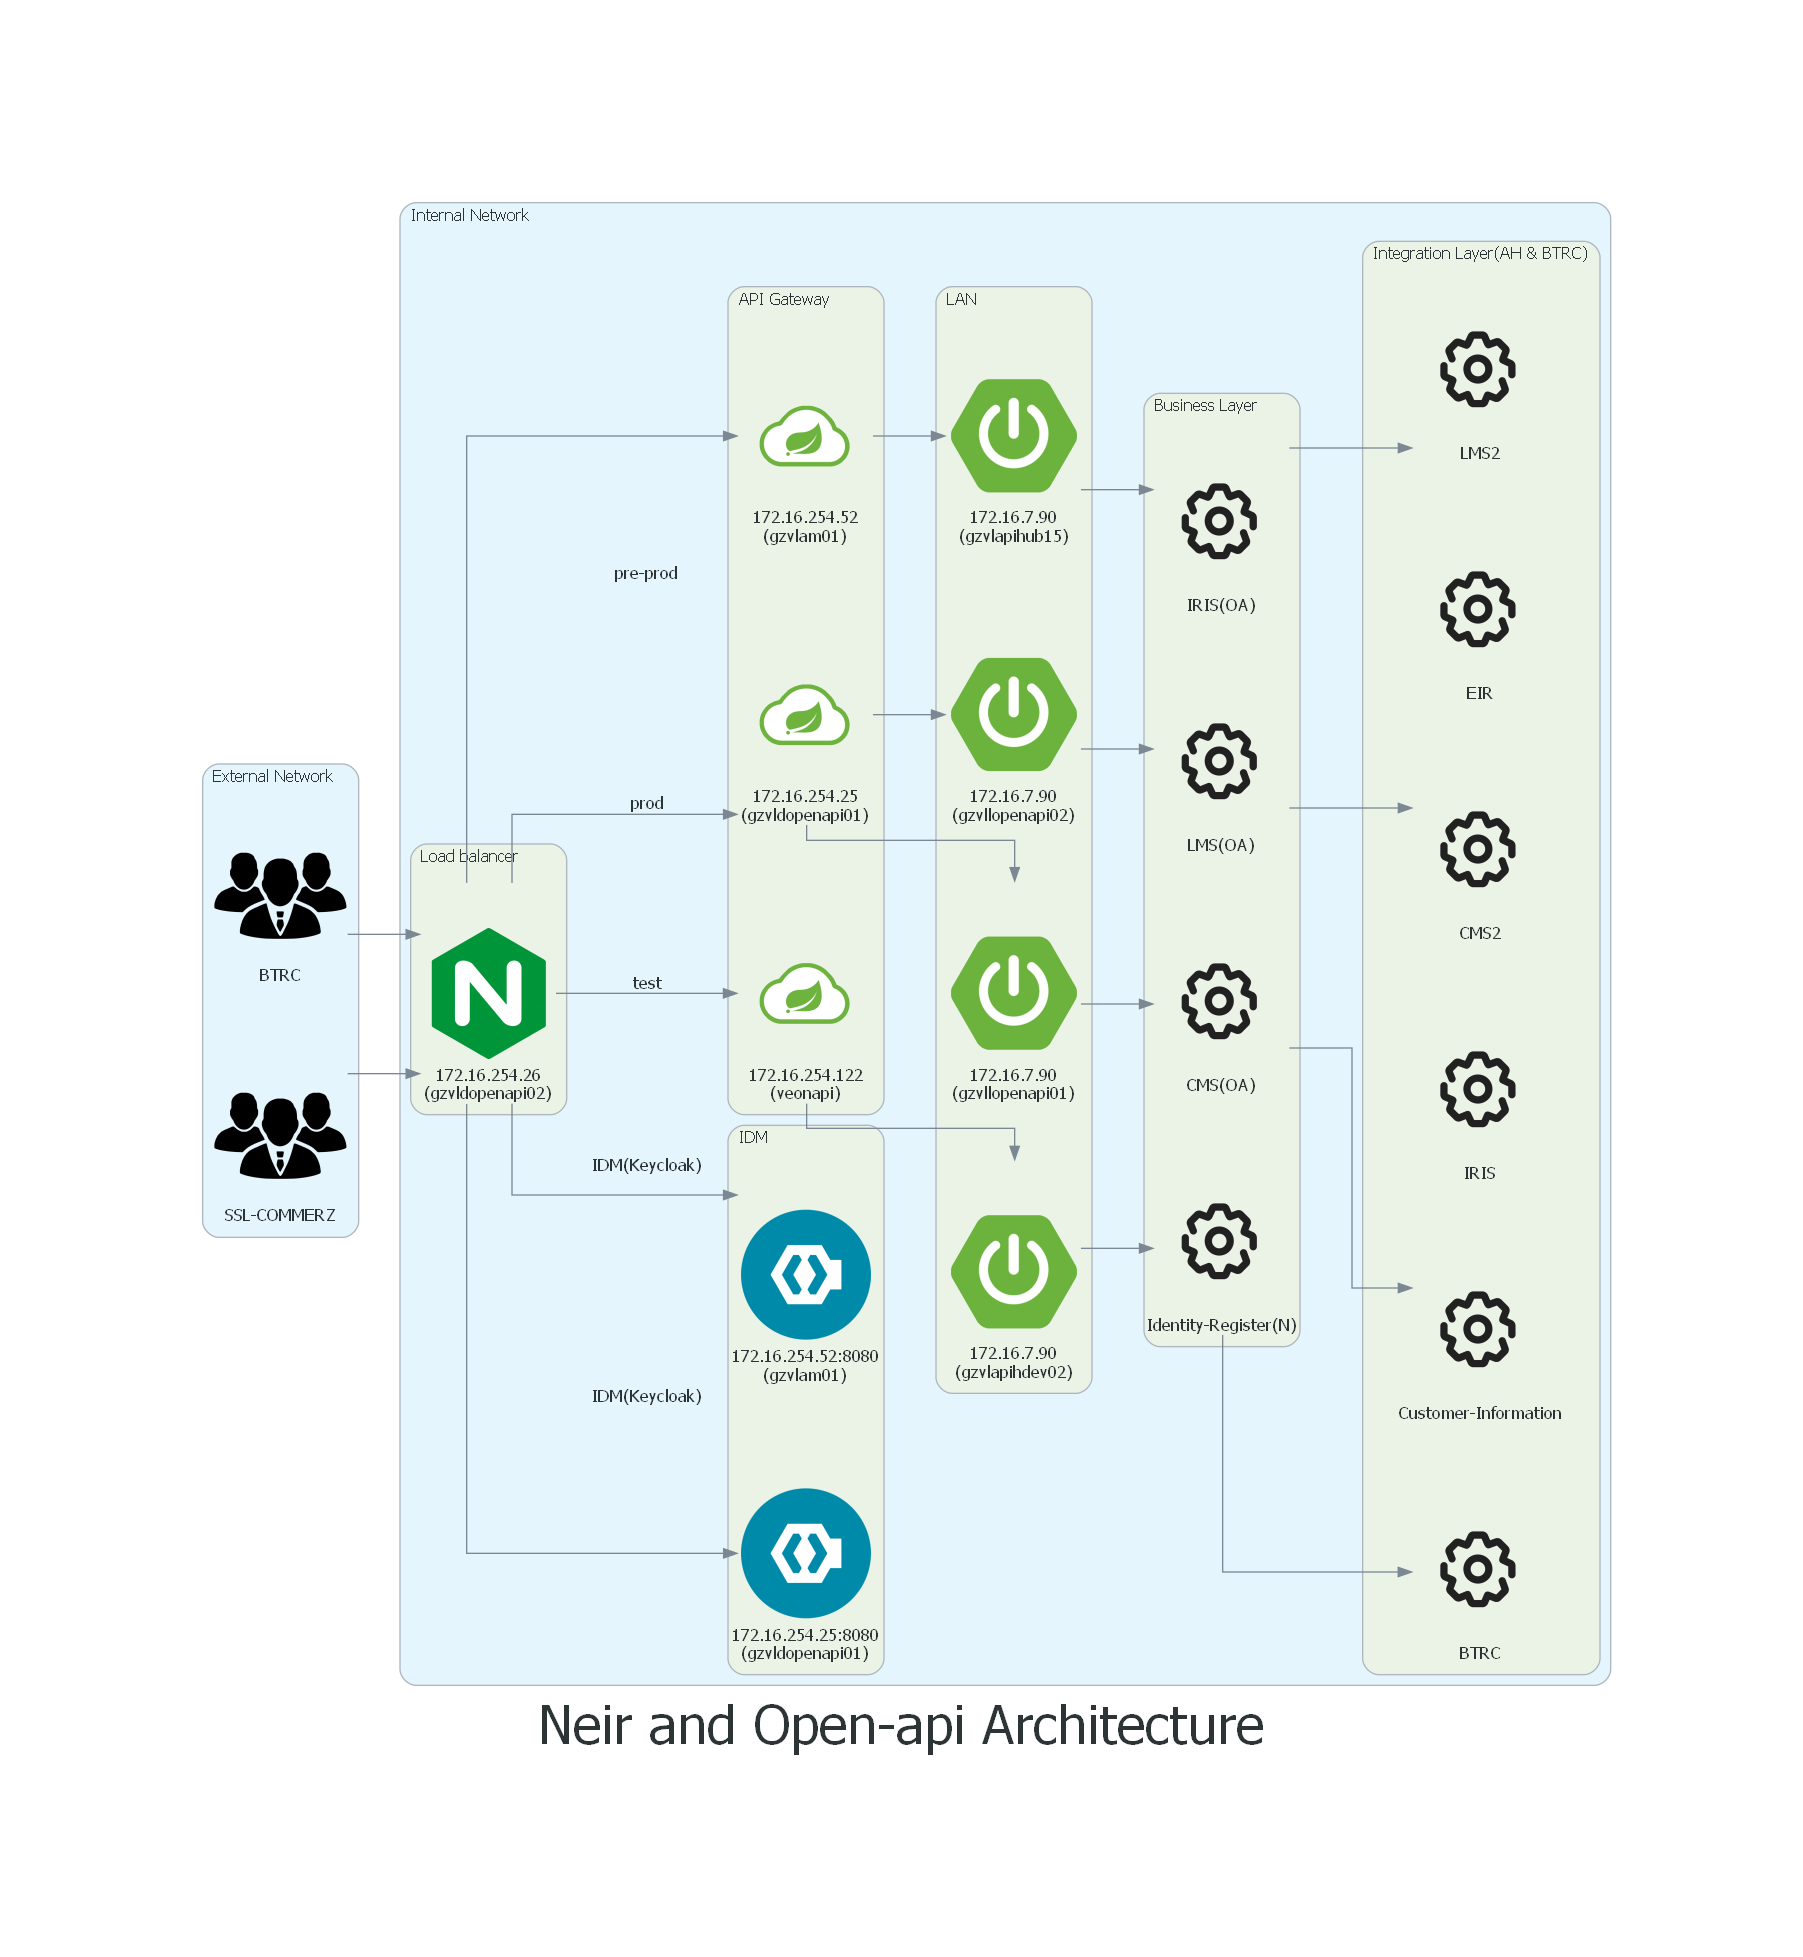
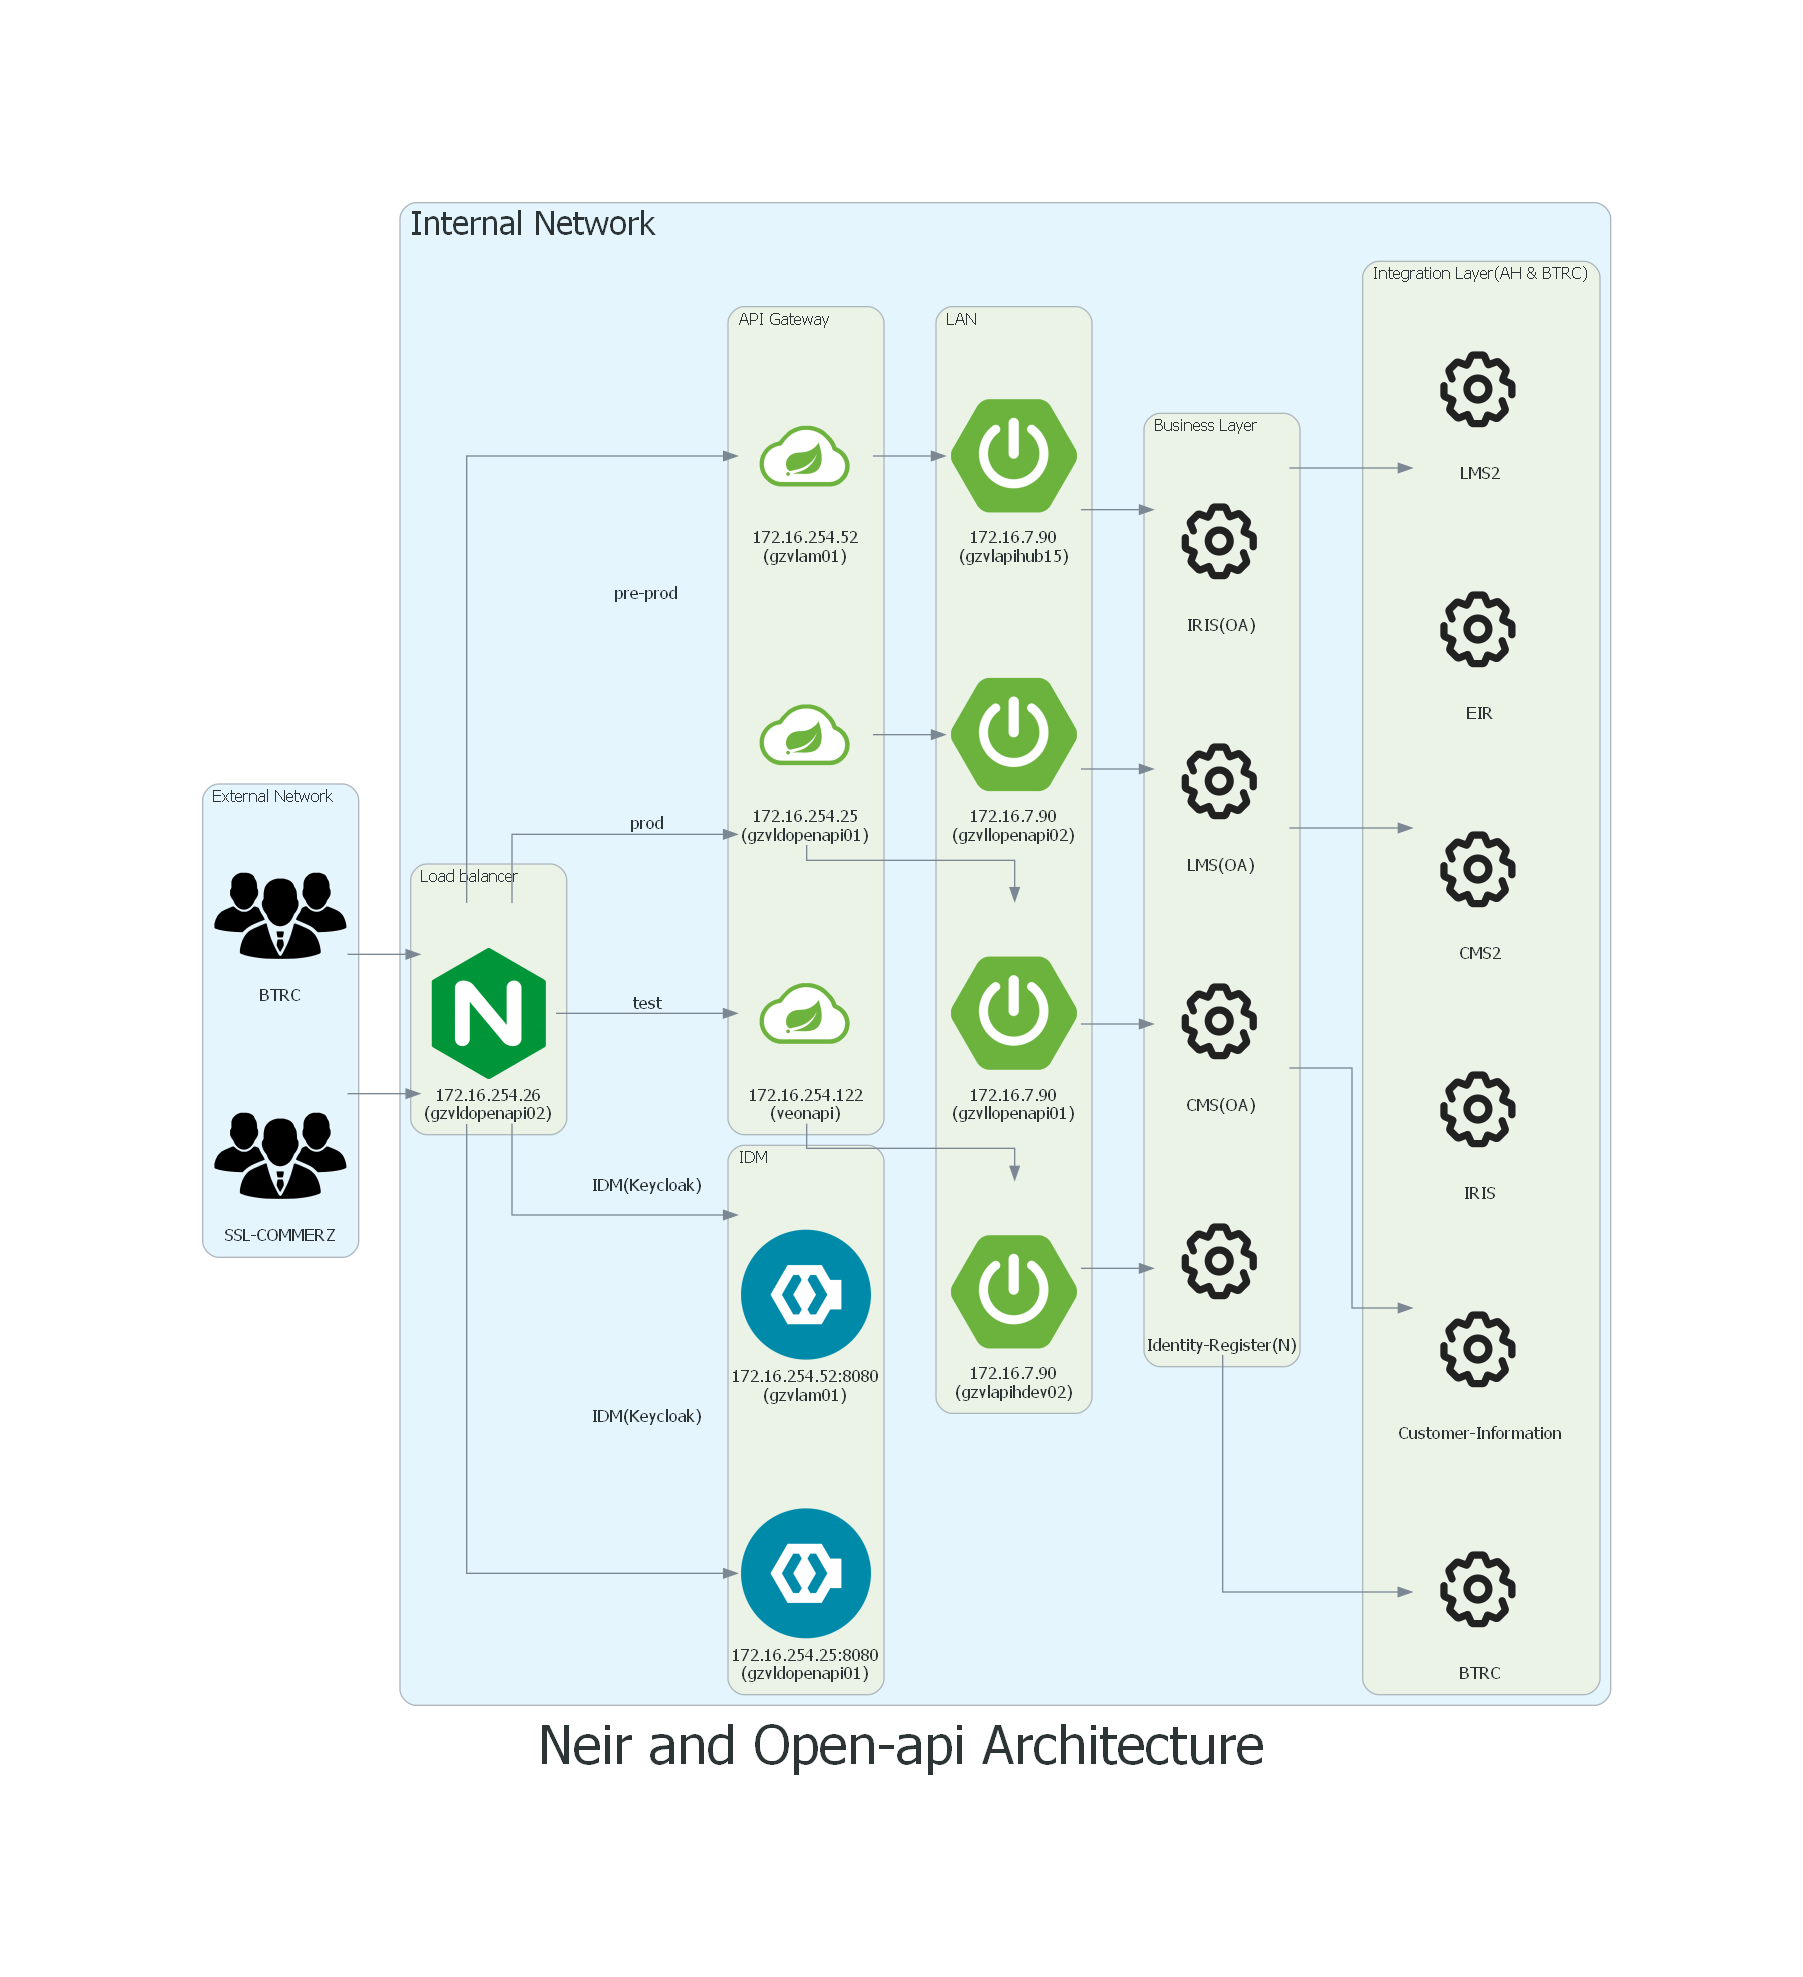
update 33

diff --git a/FinalDiagram.py b/FinalDiagram.py
@@ -15,11 +15,15 @@ srvc = "logos/services.png"
 
 
 graph_attr={
-    "margin-up": "10px",
-    "fontsize":"40"
+    "margin-up": "600px",
+    "fontsize":"40",
+    "fontweight":"bold"
 }
 
-
+graph_in={
+    "fontsize":"25",
+    "text-align": "center"
+}
 
 with Diagram("Neir and Open-api Architecture", show=True,graph_attr=graph_attr):
     
@@ -29,7 +33,7 @@ with Diagram("Neir and Open-api Architecture", show=True,graph_attr=graph_attr):
         
     
 
-    with Cluster("Internal Network"):
+    with Cluster("Internal Network",graph_attr=graph_in):
         
         with Cluster("Load balancer"):
             lb = Custom("172.16.254.26\n(gzvldopenapi02)",loadBalancer)
